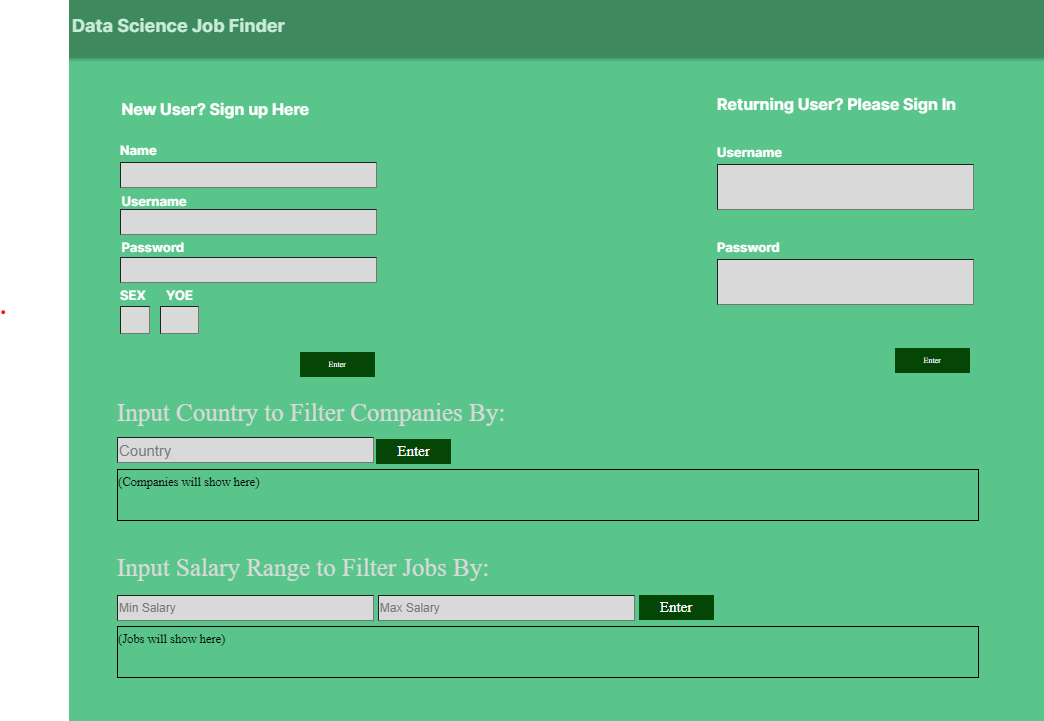
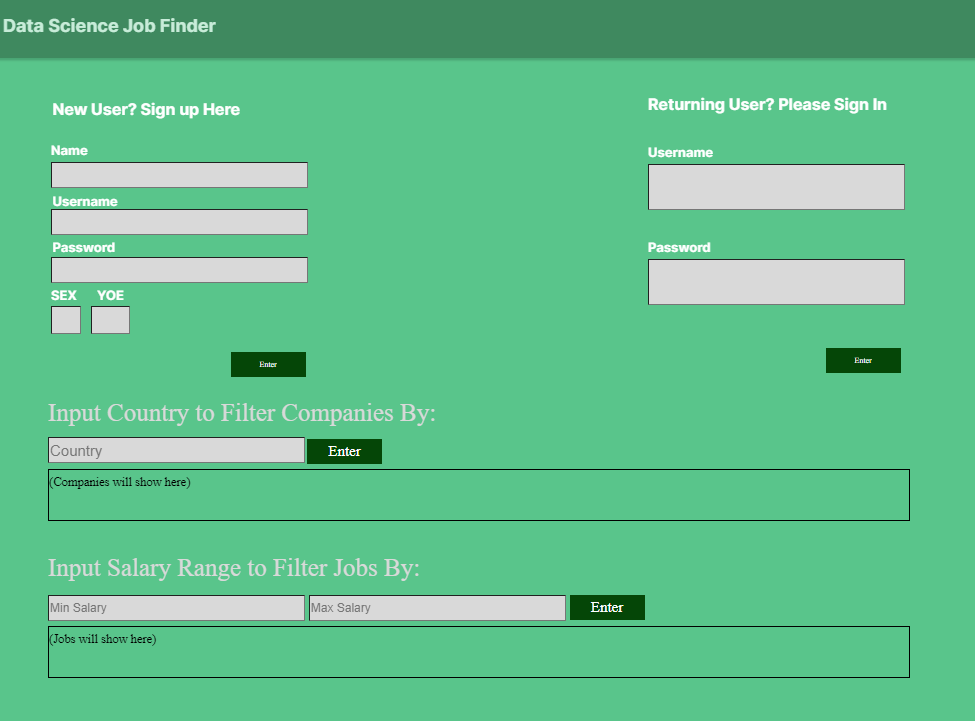
got filter by min/max salary to work and made organizational changes

diff --git a/frontend/index.html b/frontend/index.html
@@ -20,9 +20,10 @@
 		<title>desktop___1</title>
 		<meta name="viewport" content="width=device-width, initial-scale=1.0">
 		<meta name="description" content="" >
-		<link rel="StyleSheet" href="css/styles.css" />
-		<link rel="StyleSheet" href="css/input.css" />
-		<link rel="StyleSheet" href="css/countryandjobs.css" />
+		<link rel="StyleSheet" href="CSS/Styles.css" />
+		<link rel="StyleSheet" href="CSS/UserProfile.css" />
+		<link rel="StyleSheet" href="CSS/CountryAndJobs.css" />
+		<link rel="StyleSheet" href="CSS/UserAuthentication.css" />
 		<script src="https://secure.exportkit.com/cdn/js/ek_googlefonts.js?v=6"></script>
 
 	</head>
@@ -101,7 +102,7 @@
 				Enter
 			</div>
 			<div id="company_input" nameid="company_input">
-				<p id="company_name_input" tabindex="9">(Companies will show here)</p>			</div>
+				<p id="company_name_input" tabindex="9">(Companies will be shown here)</p>			</div>
 		</div>
 
 		<div id="salary" nameid="Salary">
@@ -114,12 +115,13 @@
 				Enter
 			</div>
 			<div id="company_input_salary" nameid="company_input_salary">
-				<p id="company_name_input_salary" tabindex="12">(Jobs will show here)</p>
+				<p id="company_name_input_salary" tabindex="12">(Jobs will be shown here)</p>
 			</div>
 		</div>
 
 		
 	</body>
-	<script src="user_authentication.js"></script>
-	<script src="countryandjobs.js"></script>
+	<script src="JavaScript/countryandjobs.js"></script>
+	<script src="JavaScript/user_authentication.js"></script>
+	<script src="JavaScript/"></script>
 </html>

diff --git a/frontend/JavaScript/CountryAndJobs.js b/frontend/JavaScript/CountryAndJobs.js
@@ -41,9 +41,9 @@ function companyCountryFilter() {
 }
 
 function getCompaniesWithinSalary() {
-    console.log("getCompaniesWithinSalary");
     var minSalary = document.getElementById("min-salary-input").value;
     var maxSalary = document.getElementById("max-salary-input").value;
+    console.log("minSalary: " + minSalary + ", maxSalary: " + maxSalary);
     // checking if minSalary or maxSalary is empty or undefined
     if (minSalary == undefined || maxSalary == undefined ||
             minSalary.length == 0 || maxSalary.length == 0) {
@@ -74,7 +74,7 @@ function getCompaniesWithinSalary() {
         if(!data) return;
         // updating output
         if (data == undefined || data.length == 0) {
-            document.getElementById("company_name_input_salary").innerText = "No companies found within salary range";
+            document.getElementById("company_name_input_salary").innerText = "No jobs found within salary range";
         } else {
             var companyNames = data.map(item => item.job_title + " @ " + item['Company Name']);
             document.getElementById("company_name_input_salary").innerText = companyNames.join(", ");
